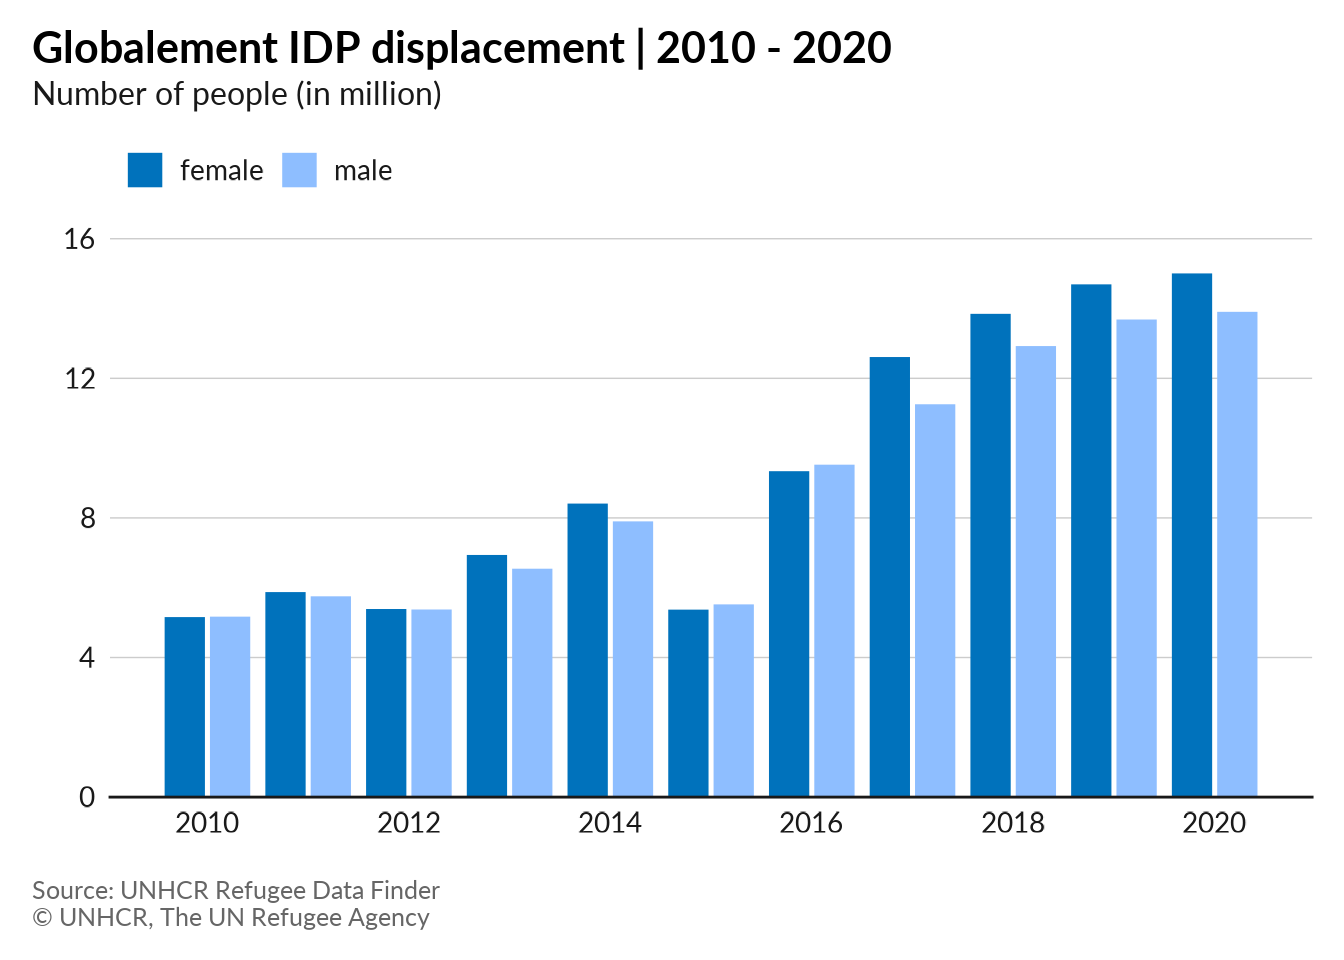
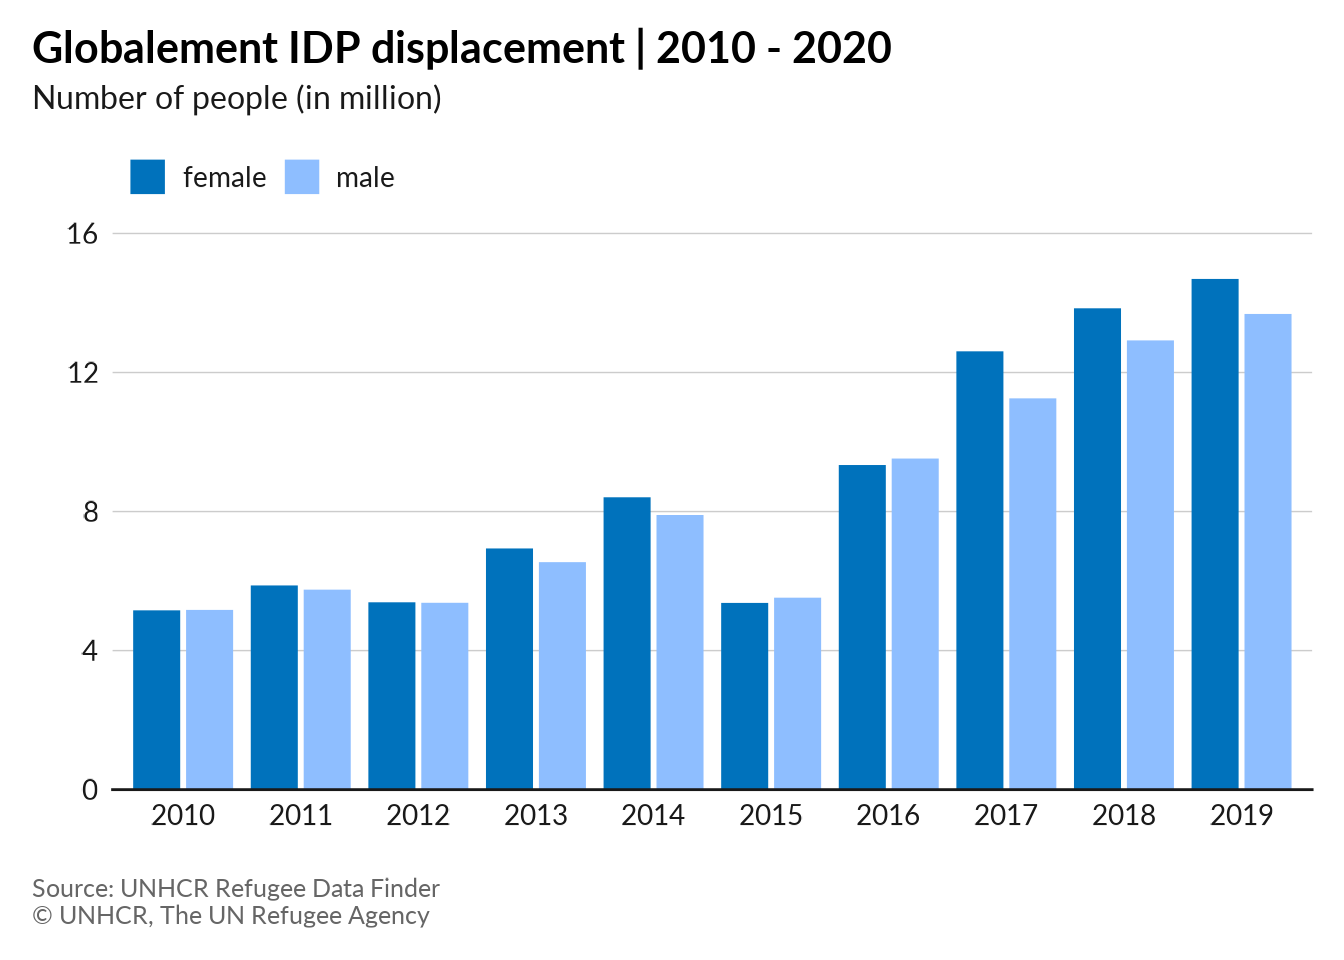
Fix large hex on online doc

diff --git a/README.md b/README.md
@@ -1,7 +1,7 @@
 
 <!-- README.md is generated from README.Rmd. Please edit that file -->
 
-# unhcrthemes <a href="https://github.com/vidonne/unhcrthemes"><img src='man/figures/unhcrthemes_sticker.png' align="right" height="140" /></a>
+# unhcrthemes <a href="https://github.com/vidonne/unhcrthemes"><img src='man/figures/unhcrthemes_sticker.png' align="right" alt="" width="120" /></a>
 
 <!-- badges: start -->
 
@@ -61,7 +61,23 @@ not possible to install **Lato** on your computer.
 
 ``` r
 library(tidyverse)
+#> ── Attaching packages ──────── tidyverse 1.3.1 ──
+#> ✔ ggplot2 3.3.5     ✔ purrr   0.3.4
+#> ✔ tibble  3.1.6     ✔ dplyr   1.0.7
+#> ✔ tidyr   1.1.4     ✔ stringr 1.4.0
+#> ✔ readr   2.1.1     ✔ forcats 0.5.1
+#> ── Conflicts ─────────── tidyverse_conflicts() ──
+#> ✖ dplyr::filter() masks stats::filter()
+#> ✖ dplyr::lag()    masks stats::lag()
 library(scales)
+#> 
+#> Attaching package: 'scales'
+#> The following object is masked from 'package:purrr':
+#> 
+#>     discard
+#> The following object is masked from 'package:readr':
+#> 
+#>     col_factor
 library(unhcrthemes)
 library(unhcrdatapackage) ## remotes::install_github("unhcr/unhcrdatapackage")
 ```
@@ -77,10 +93,10 @@ pop_total <- demographics |>
 
 
 glimpse(pop_total)
-#> Rows: 11
+#> Rows: 10
 #> Columns: 2
-#> $ year <dbl> 2010, 2011, 2012, 2013, 2014, 2015, 2016, 2017, 20…
-#> $ idp  <dbl> 14.69780, 15.47338, 17.67037, 23.92555, 32.27462, …
+#> $ year <chr> "2010", "2011", "2012", "2013", "2014", "2015", "2…
+#> $ idp  <dbl> 14.39780, 15.17338, 17.67037, 23.92555, 32.27462, …
 ```
 
 ``` r
@@ -92,7 +108,6 @@ ggplot(pop_total) +
        x = "",
        y = "",
        caption = "Source: UNHCR Refugee Data Finder\n© UNHCR, The UN Refugee Agency") +
-  scale_x_continuous(breaks = pretty_breaks()) +
   scale_y_continuous(expand = expansion(c(0, 0.1))) +
   theme_unhcr(font_size = 12,
               font_family = "Lato",
@@ -124,7 +139,6 @@ ggplot(pop_total) +
        x = "",
        y = "",
        caption = "Source: UNHCR Refugee Data Finder\n© UNHCR, The UN Refugee Agency") +
-  scale_x_continuous(breaks = pretty_breaks()) +
   scale_y_continuous(expand = expansion(c(0, 0.1))) +
   theme_unhcr(font_size = 12,
               font_family = "Lato",
@@ -145,9 +159,9 @@ pop_total_sex <- demographics |>
 #> `summarise()` has grouped output by 'year'. You can override using the `.groups` argument.
 
 glimpse(pop_total_sex)
-#> Rows: 22
+#> Rows: 20
 #> Columns: 3
-#> $ year <dbl> 2010, 2010, 2011, 2011, 2012, 2012, 2013, 2013, 20…
+#> $ year <chr> "2010", "2010", "2011", "2011", "2012", "2012", "2…
 #> $ sex  <chr> "female", "male", "female", "male", "female", "mal…
 #> $ idp  <dbl> 5.158210, 5.170928, 5.874562, 5.753568, 5.389737, …
 ```
@@ -158,7 +172,6 @@ ggplot(pop_total_sex) +
            width = 0.8,
            position = position_dodge(width = 0.9)) +
   scale_fill_unhcr_d(palette = "pal_unhcr") +
-  scale_x_continuous(breaks = pretty_breaks()) +
   scale_y_continuous(expand = expansion(c(0, 0.1))) +
   labs(title = "Globalement IDP displacement | 2010 - 2020",
        subtitle = "Number of people (in million)",
